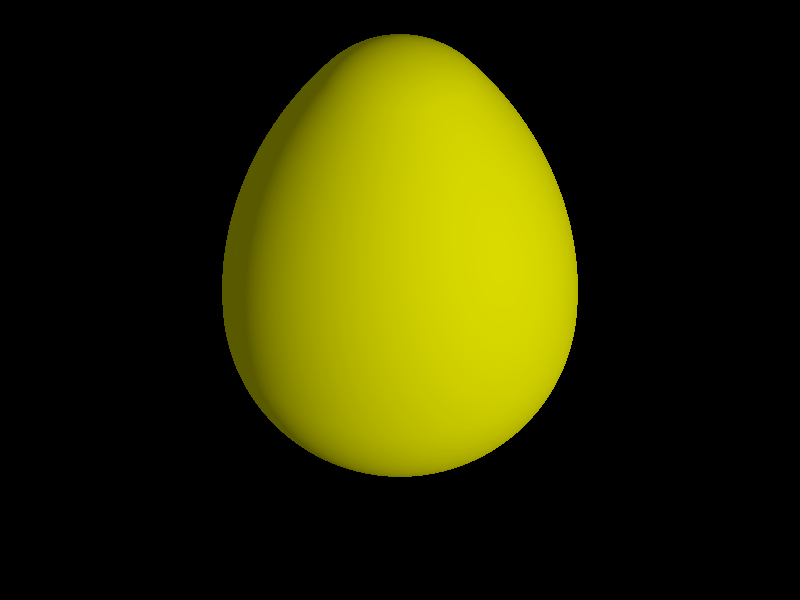
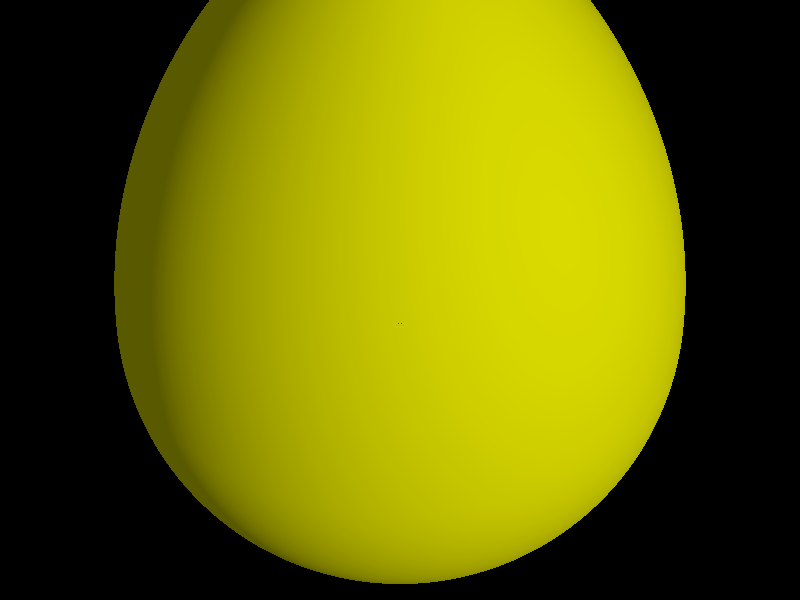
Tracer uses camera from .pov file

diff --git a/PovRay/app/povview_tracer.py b/PovRay/app/povview_tracer.py
@@ -12,12 +12,12 @@ from gi.repository import GooCanvas, GdkPixbuf
 
 
 class Tracer:
-    def __init__(self, objects, size=(512, 512)):
+    def __init__(self, lights, camera, objects, size=(512, 512)):
+        self.lights = lights
+        self.camera = camera
         self.objects = objects
         self.size = size
         self._img = None
-
-        self.trace()
 
     def get_img(self):
         return self._img
@@ -35,8 +35,8 @@ class Tracer:
 
     def trace_row(self, y):
         w, h = self.size
-        loc = Vec3(0, 0, -40)
-        angle = 30
+        loc = self.camera.location
+        angle = self.camera.angle
 
         rays = self.ray_generator_row(y, w, h, loc, angle)
         row_colors = []
@@ -78,13 +78,11 @@ class Tracer:
     def draw_on(self, views, container_size):
         root = views["Tracer"]["canvas"].get_root_item()
 
-        # Convert PIL Image to bytes using BytesIO
         buffer = BytesIO()
         self._img.save(buffer, format="PNG")
         buffer.seek(0)
         image_data = buffer.read()
 
-        # Load pixbuf from bytes using PixbufLoader
         loader = GdkPixbuf.PixbufLoader.new_with_type("png")
         try:
             loader.write(image_data)
@@ -94,39 +92,30 @@ class Tracer:
             print(f"Error loading pixbuf from in-memory data: {e}")
             return
 
-        # Original image dimensions
         img_width = pixbuf.get_width()
         img_height = pixbuf.get_height()
 
-        # Container dimensions
         container_width, container_height = container_size
 
-        # Calculate aspect ratios
         img_aspect = img_width / img_height
         container_aspect = container_width / container_height
 
-        # Determine scaling factor to maintain aspect ratio
         if img_aspect > container_aspect:
-            # Image is wider relative to container
             scale_width = container_width
             scale_height = int(container_width / img_aspect)
         else:
-            # Image is taller relative to container
             scale_height = container_height
             scale_width = int(container_height * img_aspect)
 
-        # Scale the pixbuf while maintaining aspect ratio
         scaled_pixbuf = pixbuf.scale_simple(
             scale_width,
             scale_height,
             GdkPixbuf.InterpType.BILINEAR,
         )
 
-        # Optional: Calculate position to center the image within the container
         x_pos = (container_width - scale_width) // 2
         y_pos = (container_height - scale_height) // 2
 
-        # Add the scaled and centered image to the canvas
         GooCanvas.CanvasImage(
             parent=root,
             pixbuf=scaled_pixbuf,

diff --git a/PovRay/app/povview_main.py b/PovRay/app/povview_main.py
@@ -106,11 +106,11 @@ class Views(Gtk.Grid):
         for obj in self.objs:
             obj.draw_on(self.views)
 
-    def trace(self, size):
+    def trace(self, tracer):
         if not len(self.objs):
             return
 
-        tracer = Tracer(self.objs, size)
+        tracer.trace()
         tracer.draw_on(self.views, (self.frame_width, self.frame_height))
 
 
@@ -127,7 +127,7 @@ class MainWindow(Gtk.Window):
         self.updating_roll = False
 
         # --- Subdiv Label and Entry ---
-        subdiv_label = Gtk.Label(label="SUBDIV")
+        subdiv_label = Gtk.Label(label="SUBDIVISIONS")
         subdiv_label.set_xalign(0)
         self.subdiv_entry = Gtk.Entry()
         self.subdiv_entry.set_text("10")
@@ -185,7 +185,7 @@ class MainWindow(Gtk.Window):
         self.presets_combobox.append_text("1024x768")
         self.presets_combobox.append_text("1280x720")
         self.presets_combobox.append_text("1920x1080")
-        self.presets_combobox.append_text("Personalizado")
+        self.presets_combobox.append_text("Custom")
         self.presets_combobox.set_active(0)  # Seleccionar el primer preset por defecto
 
         # --- Box para Width y Height lado a lado ---
@@ -265,7 +265,7 @@ class MainWindow(Gtk.Window):
                 case "1920x1080":
                     self.width_entry.set_text("1920")
                     self.height_entry.set_text("1080")
-                case "Personalizado":
+                case "Custom":
                     self.width_entry.set_text("")
                     self.height_entry.set_text("")
 
@@ -277,7 +277,12 @@ class MainWindow(Gtk.Window):
 
     def on_trace_button_clicked(self, menuitem):
         self.views.trace(
-            (int(self.width_entry.get_text()), int(self.height_entry.get_text()))
+            Tracer(
+                self.parsed_file["lights"],
+                self.parsed_file["cameras"][0],
+                self.parsed_file["objects"],
+                (int(self.width_entry.get_text()), int(self.height_entry.get_text())),
+            )
         )
 
     def on_add_cone_clicked(self, menuitem):
@@ -332,8 +337,8 @@ class MainWindow(Gtk.Window):
 
         self.views.full_clear_views()
 
-        parsed_file = parse(self.file)
-        objects = parsed_file["objects"]
+        self.parsed_file = parse(self.file)
+        objects = self.parsed_file["objects"]
 
         for obj in objects:
             self.views.add_object(obj, **self.get_params())

diff --git a/PovRay/app/povview_things.py b/PovRay/app/povview_things.py
@@ -23,6 +23,7 @@ class Camera:
         self.location = Vec3(Object3D.handle_value(camera_data["location"]))
         self.look_at = Vec3(Object3D.handle_value(camera_data["look_at"]))
         self.up = Vec3(Object3D.handle_value(camera_data["up"]))
+        self.angle = camera_data["angle"]
 
     def __str__(self):
         return f"Camera(location={self.location}, look_at={self.look_at}, up={self.up})"
@@ -194,16 +195,15 @@ class Object3D:
                 case _:
                     raise ValueError("Invalid modifier type")
 
-     # TODO: Slow function, try adding a Cache
     @timer
     def generate_faces(self):
-        #Cache Load
+        # Cache Load
         filename = f"faces/{self.__class__.__name__}_{self._subdiv}.txt"
         if os.path.exists(filename):
-            with open(filename, 'rb') as f:
+            with open(filename, "rb") as f:
                 faces = pickle.load(f)
             return faces
-        
+
         vertex_to_edges = defaultdict(list)
 
         for i, (v1, v2) in enumerate(self.edges):
@@ -238,10 +238,10 @@ class Object3D:
                     face = tuple(sorted([shared_vertex, other_vertex1, other_vertex2]))
                     if face not in faces:
                         faces.append(face)
-                        
-        #Cache Save
-        os.makedirs(os.path.dirname(filename), exist_ok=True) 
-        with open(filename, 'wb') as f:
+
+        # Cache Save
+        os.makedirs(os.path.dirname(filename), exist_ok=True)
+        with open(filename, "wb") as f:
             pickle.dump(faces, f)
 
         return faces

diff --git a/PovRay/app/povview_parser.py b/PovRay/app/povview_parser.py
@@ -73,6 +73,8 @@ def make_parser():
         + vector3("look_at")
         + pp.Keyword("up")
         + vector3("up")
+        + pp.Keyword("angle")
+        + ufloat("angle")
         + close_brace
     )
     camera.set_parse_action(lambda t: Camera(t.as_dict()))
